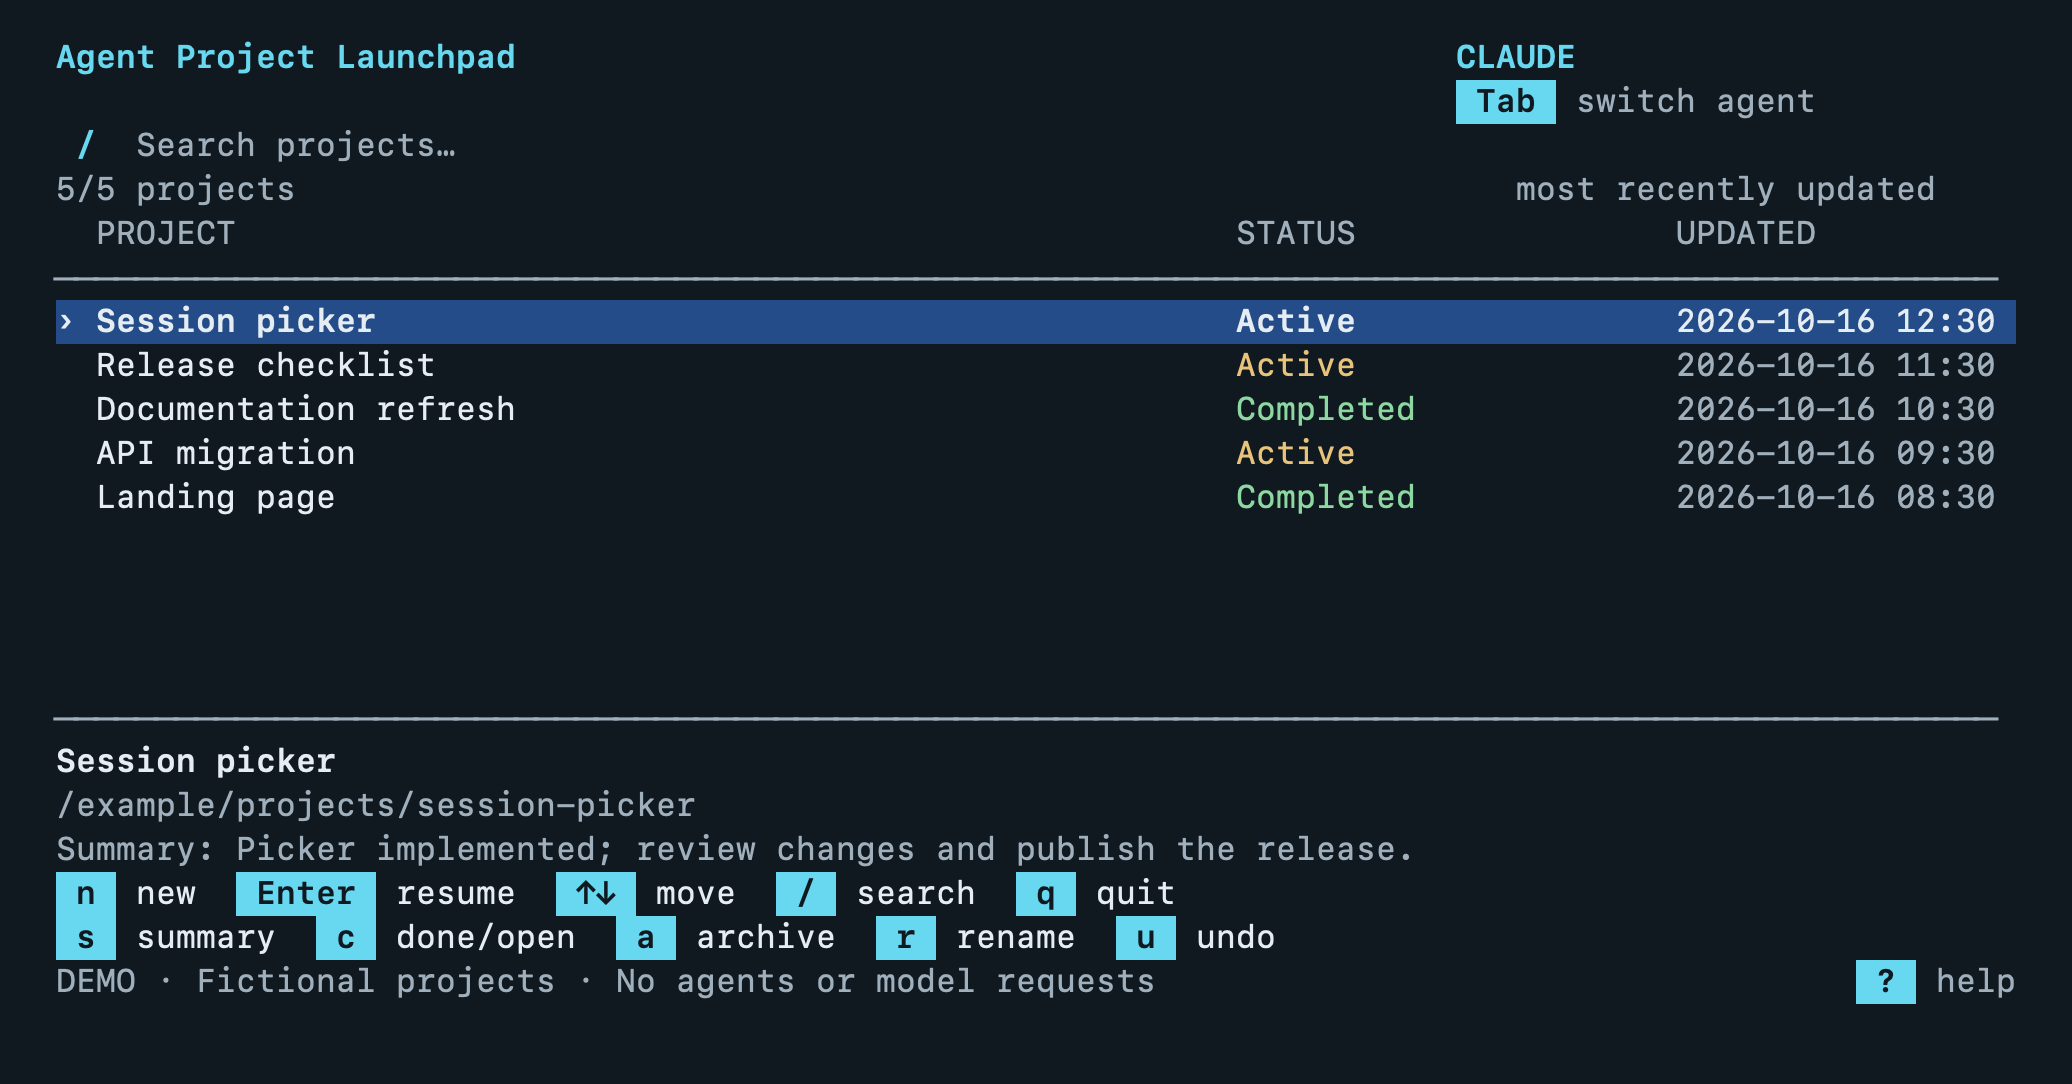
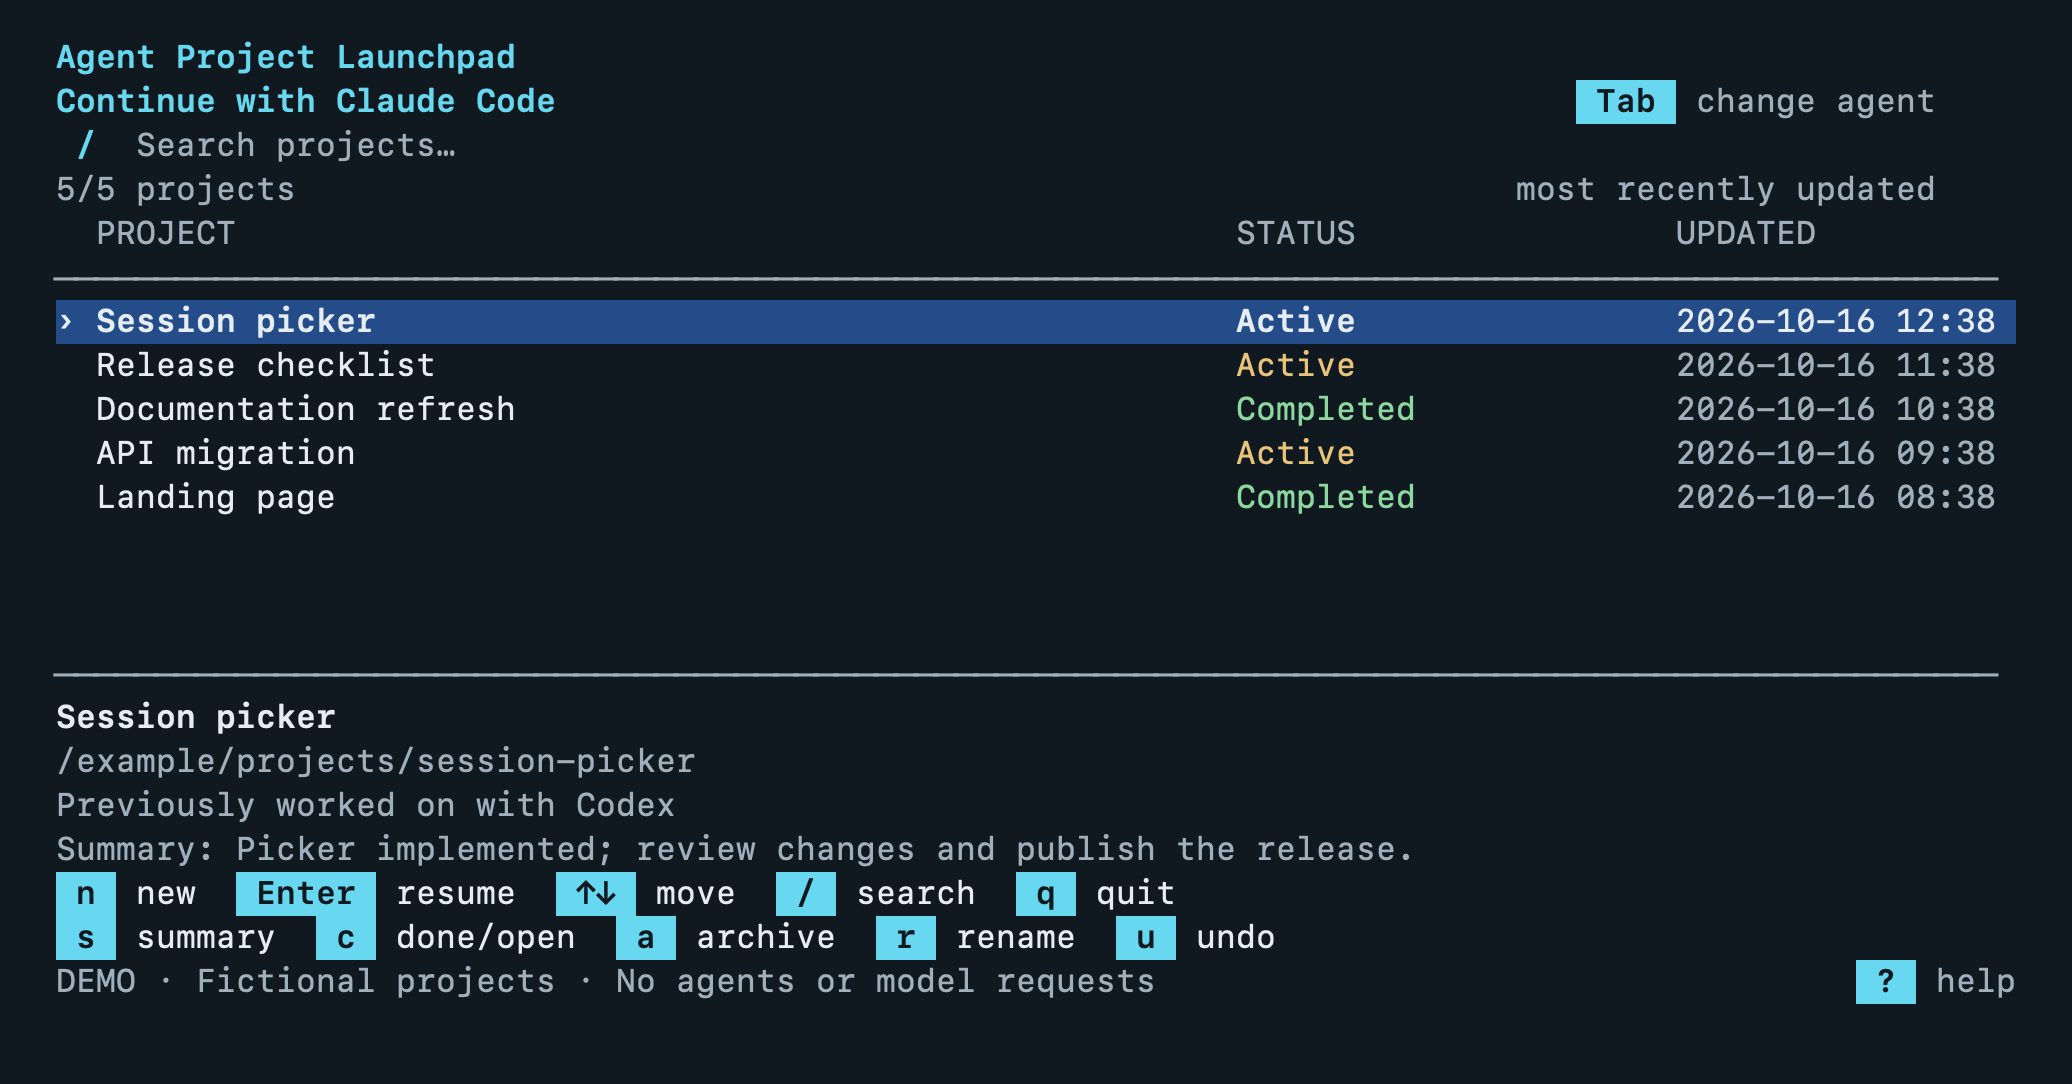
Clarify destination agent and show previous agent in project preview

Changed region(s): [[0.0309, 0.6089, 0.9575, 0.7611], [0.6795, 0.0304, 0.9266, 0.1218], [0.0309, 0.0609, 0.278, 0.1218]]

diff --git a/src/agent_launchpad/ui.py b/src/agent_launchpad/ui.py
@@ -128,6 +128,16 @@ class Painter:
             x += len(label) + 2
 
 
+AGENT_LABELS = {"codex": "Codex", "claude": "Claude Code", "copilot": "GitHub Copilot"}
+
+
+def last_agent(project: Project) -> str:
+    if not project.sessions:
+        return "Unknown"
+    latest = max(project.sessions.values(), key=lambda session: session.updated)
+    return AGENT_LABELS.get(latest.agent, latest.agent)
+
+
 def render(screen, visible: list[Project], selected: int, total: int, agent: str,
            query: str, searching: bool, message: str, theme: Theme,
            available: bool = True) -> None:
@@ -136,9 +146,13 @@ def render(screen, visible: list[Project], selected: int, total: int, agent: str
     paint = Painter(screen)
     height, width = paint.height, paint.width
     paint.write(0, 1, "Agent Project Launchpad", theme.accent)
-    paint.write(0, max(25, width - 29), f"{agent.upper()}{'' if available else ' unavailable'}", theme.accent)
-    paint.write(1, max(18, width - 29), ' Tab ', theme.key)
-    paint.write(1, max(18, width - 29) + 6, 'switch agent', theme.muted)
+    destination = "Continue with " + AGENT_LABELS.get(agent, agent)
+    if not available:
+        destination += " (unavailable)"
+    action_width = 23 if width >= 65 else 12
+    paint.write(1, 1, destination, theme.accent, width=max(1, width - action_width - 2))
+    paint.write(1, width - action_width, ' Tab ', theme.key)
+    paint.write(1, width - action_width + 6, 'change agent' if width >= 65 else 'change', theme.muted)
     paint.write(2, 1, " / ", theme.key if searching else theme.accent)
     paint.write(2, 5, query + ("▏" if searching else "") if query or searching
                 else "Search projects…", 0 if query or searching else theme.muted)
@@ -152,7 +166,7 @@ def render(screen, visible: list[Project], selected: int, total: int, agent: str
     for x, label in ((3, "PROJECT"), (status_x, "STATUS"), (date_x, "UPDATED")):
         paint.write(4, x, label, theme.muted)
     paint.write(5, 1, "─" * (width - 3), theme.muted)
-    preview_y = height - 8
+    preview_y = height - 9
     capacity = max(1, preview_y - 6)
     start = max(0, selected - capacity + 1)
     for index in range(start, min(len(visible), start + capacity)):
@@ -176,12 +190,13 @@ def render(screen, visible: list[Project], selected: int, total: int, agent: str
         item = visible[selected]
         paint.write(preview_y + 1, 1, item.title, curses.A_BOLD)
         paint.write(preview_y + 2, 1, str(item.directory or "Directory not recorded"), theme.muted)
-        native = " · ".join(item.sessions) or "No native session"
+        paint.write(preview_y + 3, 1, "Previously worked on with " + last_agent(item) if item.sessions
+                    else "No native conversation recorded", theme.muted)
         if item.summary:
             prefix = 'Review may be stale: ' if item.summary_stale else 'Summary: '
-            paint.write(preview_y + 3, 1, prefix + item.summary, theme.muted)
+            paint.write(preview_y + 4, 1, prefix + item.summary, theme.muted)
         else:
-            paint.write(preview_y + 3, 1, "History: " + native + "  |  " + (item.detail or item.status),
+            paint.write(preview_y + 4, 1, item.detail or item.status,
                         theme.status(item.status))
     paint.keys(height - 4, [("n", "new"), ("Enter", "resume"), ("↑↓", "move"),
                             ("/", "search"), ("q", "quit")], theme)
@@ -208,7 +223,7 @@ def help_screen(screen, theme: Theme) -> None:
         ('n', 'New conversation in your current Terminal directory'),
         ('↑↓ / jk', 'Select a project'),
         ('Enter', 'Resume; also opens the selected search result'),
-        ('Tab', 'Switch Codex / Claude / Copilot'),
+        ('Tab', 'Change the agent to continue with: Codex / Claude / Copilot'),
         ('/', 'Search project names, lifecycle, and directories'),
         ('s', 'Agent summary and suggested names; review before saving'),
         ('r', 'Edit project name; Ctrl-U clears the field'),

diff --git a/tests/test_ui_cli.py b/tests/test_ui_cli.py
@@ -7,6 +7,7 @@ from pathlib import Path
 from unittest.mock import patch
 
 from agent_launchpad.cli import main, shell_init
+from agent_launchpad.models import Session
 from agent_launchpad.projects import Catalog
 from agent_launchpad.ui import Theme, choose, fit, render, text_width
 from helpers import codex, paths
@@ -137,6 +138,18 @@ class UITests(unittest.TestCase):
         self.assertEqual([y for y, _style in titles], [6, 7])
         keys = [style for _y, _x, text, style in screen.lines if text == ' n ']
         self.assertEqual(keys, [theme.key])
+
+    def test_last_agent_is_latest_native_activity_not_chosen_destination(self):
+        project = self.catalog.load()[0]
+        project.sessions['claude'] = Session('claude', 'newer', 'First', None, 300)
+        project.sessions['copilot'] = Session('copilot', 'older', 'First', None, 150)
+        for width in (80, 100, 120):
+            screen = Screen([], (24, width))
+            render(screen, [project], 0, 1, 'codex', '', False, '', Theme())
+            texts = [text for _y, _x, text, _style in screen.lines]
+            self.assertIn('Continue with Codex', texts)
+            self.assertIn('Previously worked on with Claude Code', texts)
+            self.assertNotIn('LAST AGENT', texts)
 
     def test_status_palette_and_no_color(self):
         theme = Theme(success=1, warning=2, danger=3, ready=4, muted=5)

diff --git a/docs/guide.md b/docs/guide.md
@@ -4,8 +4,9 @@
 
 Type `claude`, `codex`, or `gh copilot` as usual. Agent Project Launchpad shows
 your existing projects, when you last worked on them, and where you left off.
-Choose one and press Enter to continue. Press Tab to switch agents, carrying
-shared project notes and recent conversation context with you.
+Choose one and press Enter to continue with the agent you launched. Shared
+project notes and recent conversation context carry along, including when
+the project was previously worked on with another agent.
 
 ## Install
 
@@ -48,7 +49,10 @@ gh copilot   # Open it with GitHub Copilot selected
 ```
 
 Existing local conversations appear automatically. Use ↑/↓ to choose a project
-and Enter to resume it. To continue with another agent, press Tab before Enter.
+and Enter to continue with the agent you launched. The header says “Continue
+with Codex” (or your chosen agent); the project preview shows which agent most
+recently worked on it. If that changes your choice, press Tab to change the
+agent you will continue with.
 Press `n` to start a new conversation in your current Terminal directory.
 Standalone `copilot` also opens the picker when installed.
 
@@ -61,7 +65,7 @@ see [shell setup details](#shell-setup-details) below.
 | `n` | Start a new conversation immediately, in the current Terminal directory |
 | `↑` / `↓` or `k` / `j` | Select a project |
 | `Enter` | Resume the selected project with the selected tool |
-| `Tab` | Cycle Codex → Claude Code → Copilot |
+| `Tab` | Change the agent to continue with: Codex → Claude Code → Copilot |
 | `/` | Filter by project name, status, or directory |
 | `r` | Rename the project in this picker |
 | `s` | Ask the selected agent for a progress summary and suggested names |
@@ -74,8 +78,10 @@ Names come from the native session title or first prompt until you rename them.
 Status tracks the lifecycle: **Active, Completed, or Archived**, not live running/idle activity. Dates are
 local time and reflect the latest native session or shared-handoff modification.
 Distinct tasks in the same directory remain separate projects. Rows are compact:
-project name, status, then date. The full selected name and directory appear in
-the preview. Narrow terminals shorten the date and keep one line per project.
+project name, status, then date. The preview shows the full selected name,
+directory, and which agent most recently worked on the project, based on native
+conversation activity. That history is separate from the agent you choose to
+continue with. Narrow terminals shorten the date and keep one line per project.
 Color distinguishes the selection, command keycaps, and lifecycle; text
 labels and a selection marker also work in monochrome. Set `NO_COLOR=1` to opt out.
 
@@ -160,8 +166,9 @@ on first use. This supports the current agentic Copilot CLI, not the retired
 ### Shared handoffs
 
 Type your normal agent command, select a project, and press Enter. The launcher
-creates or refreshes its shared handoff automatically. To switch agents, select
-the same project, press Tab to choose the receiving agent, and press Enter.
+creates or refreshes its shared handoff automatically. To pick up a Claude
+project with Codex, type `codex`, select that project, and press Enter. You can
+also change the receiving agent with Tab while browsing the picker.
 
 A handoff contains the goal, decisions, findings, changed files, validation, and
 next steps. You can

diff --git a/README.md b/README.md
@@ -7,8 +7,9 @@ working on, when you last touched it, and where you left off. Switch agents
 with shared project notes and recent conversation context carried along.
 
 Type `claude`, `codex`, or `gh copilot` as usual. Pick a project and press Enter
-to continue, or press Tab to switch agents. Your existing conversations appear
-automatically.
+to continue. Your existing conversations appear automatically, including projects
+you worked on with another agent. The preview shows who you last used;
+“Continue with” shows who will pick up the work.
 
 ![Agent Project Launchpad picker showing projects, lifecycle status, agent switching, and keyboard controls](docs/preview.png)
 
@@ -54,7 +55,7 @@ no model requests, and leaves your existing sessions alone.
 | Key | Action |
 | --- | --- |
 | `↑` / `↓`, `Enter` | Select and continue a project |
-| `Tab` | Switch agent |
+| `Tab` | Change the agent to continue with |
 | `n` | Start something new |
 | `/` | Search |
 | `s` | Generate a summary and suggested names; review before saving |
